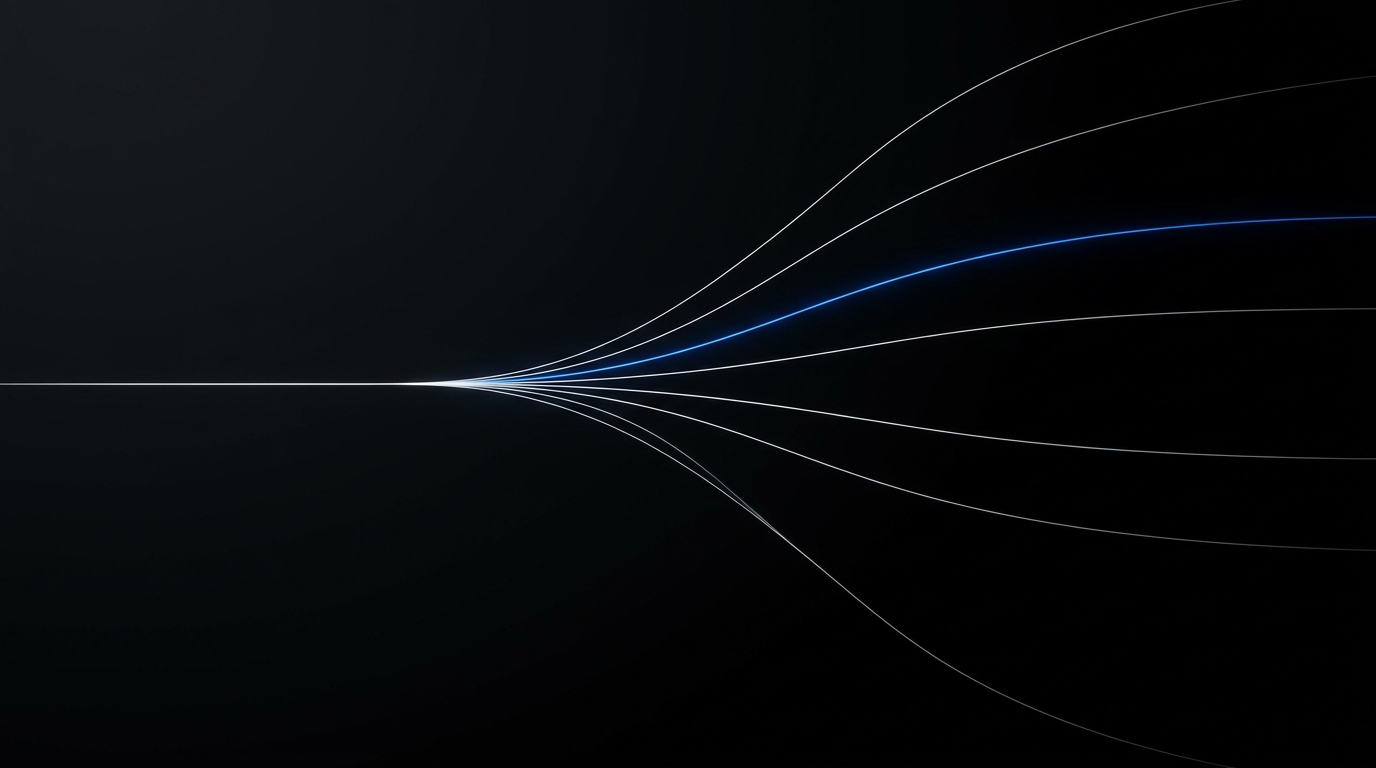
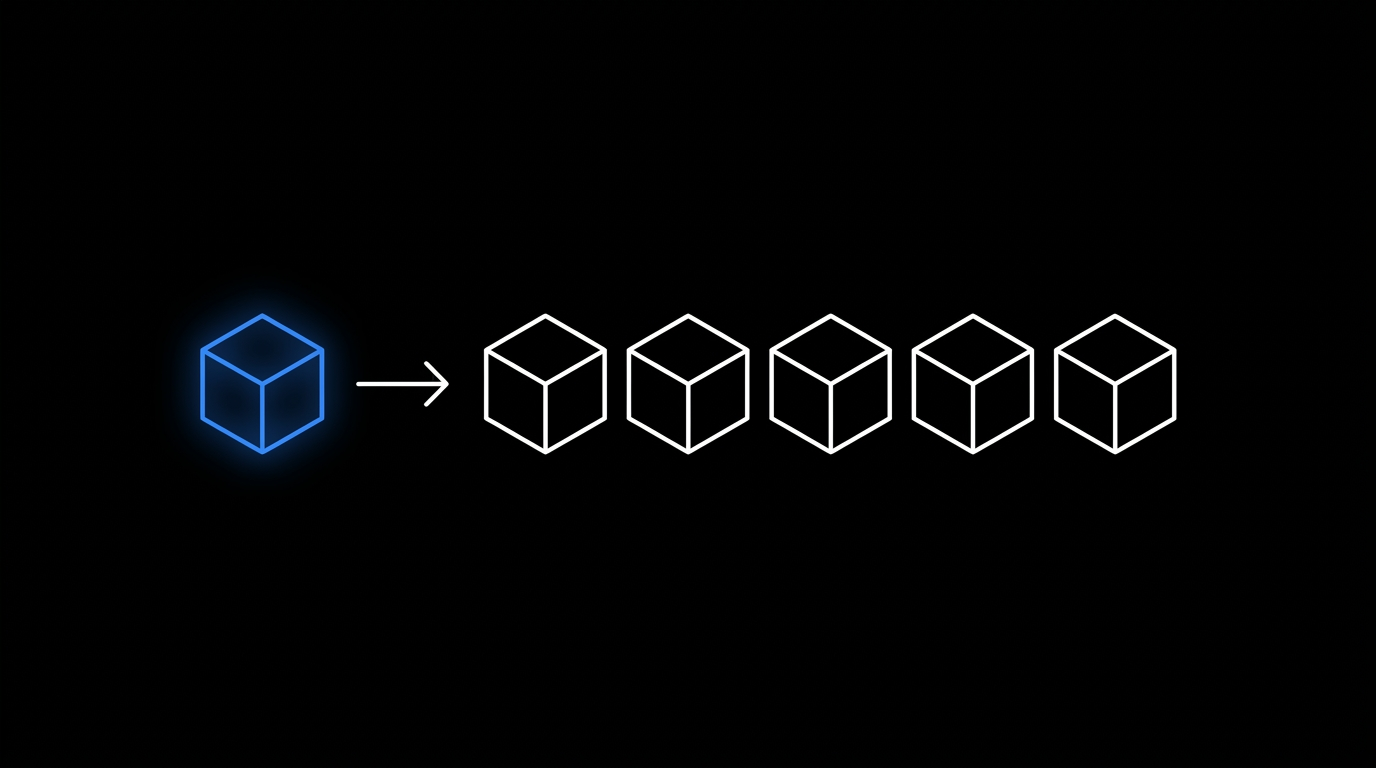
feat(incubator): swap hero graphic to the 5-cube version
John picked the cube graphic (alternate 2) and wants five cubes, not three.
Replace the hero image with one blue cube multiplied into a clean row of five
white cubes, the "one becomes many" leverage idea. Update alt text.

diff --git a/src/components/landing/incubator-hero.tsx b/src/components/landing/incubator-hero.tsx
@@ -57,7 +57,7 @@ export function IncubatorHero() {
         <div className="mx-auto mt-10 w-full max-w-3xl overflow-hidden rounded-2xl border border-border bg-black sm:mt-14">
           <Image
             src="/incubator/hero.jpg"
-            alt="A single line splitting into many, one operator multiplied into the output of a team"
+            alt="One glowing cube multiplied into five, one operator multiplied into the output of a team"
             width={1376}
             height={768}
             priority
